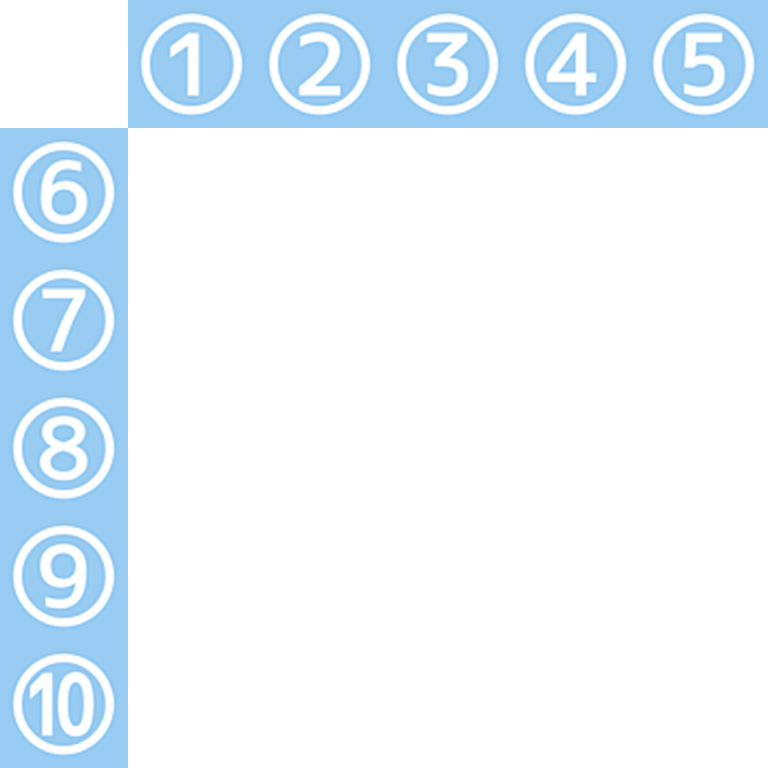
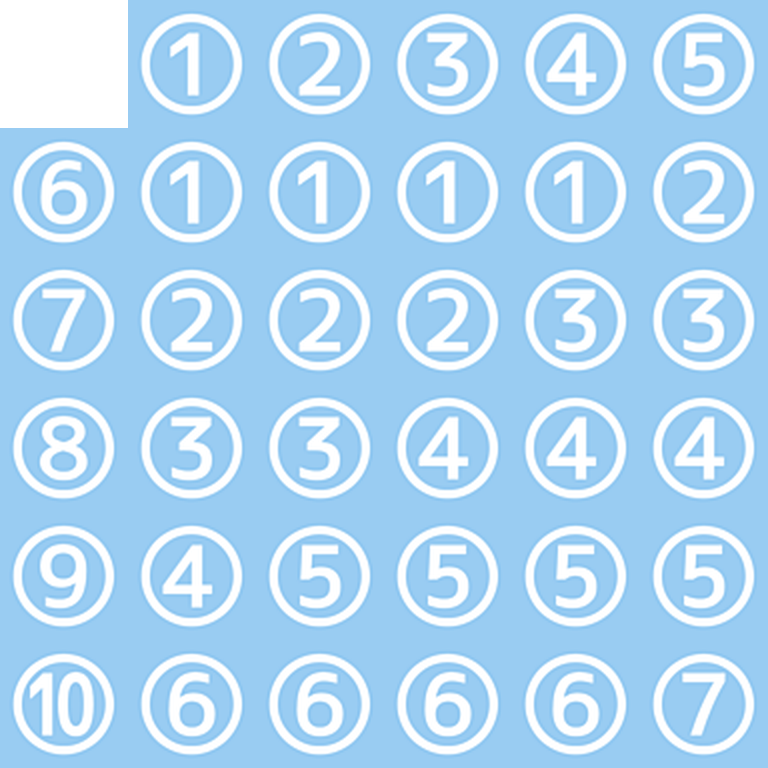
a

diff --git a/image_processing/7/create_grid_image.py b/image_processing/7/create_grid_image.py
@@ -11,6 +11,7 @@ if __name__ == '__main__':
     parser = argparse.ArgumentParser()
     parser.add_argument("in_x_dir", type=str)
     parser.add_argument("in_y_dir", type=str)
+    parser.add_argument("in_synthesis_dir", type=str)
     parser.add_argument("out_grid_dir", type=str)
     parser.add_argument("--n_grid_size", type=int, default="5")
     parser.add_argument("--height", type=int, default="128")
@@ -24,6 +25,7 @@ if __name__ == '__main__':
     if( args.debug ):
         print( "args.in_x_dir :", args.in_x_dir )
         print( "args.in_y_dir :", args.in_y_dir )
+        print( "args.in_synthesis_dir :", args.in_synthesis_dir )
         print( "args.out_grid_dir :", args.out_grid_dir )
         print( "args.n_grid_size :", args.n_grid_size )
         print( "args.height :", args.height )
@@ -31,18 +33,40 @@ if __name__ == '__main__':
 
     image_x_names = sorted([f for f in os.listdir(args.in_x_dir) if f.endswith(('.png', ".jpeg", ".jpg"))])
     image_y_names = sorted([f for f in os.listdir(args.in_y_dir) if f.endswith(('.png', ".jpeg", ".jpg"))])
+    synthesis_names = sorted([f for f in os.listdir(args.in_synthesis_dir) if f.endswith(('.png', ".jpeg", ".jpg"))])
+
+    if( args.debug ):
+        print( "len(image_x_names) :", len(image_x_names) )
+        print( "len(image_y_names) :", len(image_y_names) )
+        print( "len(synthesis_names) :", len(synthesis_names) )
 
     # グリッド画像の貼り付け先となるベース画像
     image_base = Image.new("RGB", (args.width*(args.n_grid_size+1), args.height*(args.n_grid_size+1)), (255, 255, 255))
 
-    for y in range(args.n_grid_size):
-        image_y = Image.open( os.path.join(args.in_y_dir, image_y_names[y]) )
+    k = 0
+    for i in range(args.n_grid_size):
+        # y 軸の画像
+        image_y = Image.open( os.path.join(args.in_y_dir, image_y_names[i]) )
         image_y = image_y.resize( (args.width, args.width), Image.LANCZOS )
-        image_base.paste( image_y, (0,(y+1)*args.height) )
-        for x in range(args.n_grid_size):
-            image_x = Image.open( os.path.join(args.in_x_dir, image_x_names[x]) )
-            image_x = image_x.resize( (args.width, args.width), Image.LANCZOS )
-            image_base.paste( image_x, ((x+1)*args.width,0) )
+        image_base.paste( image_y, (0,(i+1)*args.height) )
+        if( args.debug ):
+            print( "[y-axis] paste pos (width,height) : {}".format( (0,(i+1)*args.height) ) )
 
-    image_base.save(os.path.join(args.out_grid_dir, "grid_image.png"))
+        # x 軸の画像（下の for ループ内で行うよりこっちのループ内で処理を行うほうが効率がいい）
+        image_x = Image.open( os.path.join(args.in_x_dir, image_x_names[i]) )
+        image_x = image_x.resize( (args.width, args.width), Image.LANCZOS )
+        image_base.paste( image_x, ((i+1)*args.width,0) )
+        if( args.debug ):
+            print( "[x-axis] paste pos (width,height) : {}".format( ((i+1)*args.width,0) ) )
+
+        for n in range(args.n_grid_size):
+            # グリッド内の合成画像
+            image_synthesis = Image.open( os.path.join(args.in_synthesis_dir, synthesis_names[k]) )
+            image_synthesis = image_synthesis.resize( (args.width, args.width), Image.LANCZOS )
+            image_base.paste( image_synthesis,( (1+n)*args.width,(1+i)*args.height ) )
+            k += 1
+            if( args.debug ):
+                print( "paste pos (width,height) : {}".format( ((1+n)*args.width,(1+i)*args.height ) ) )
+
+    image_base.save( os.path.join(args.out_grid_dir, "grid_image.png") )
 
